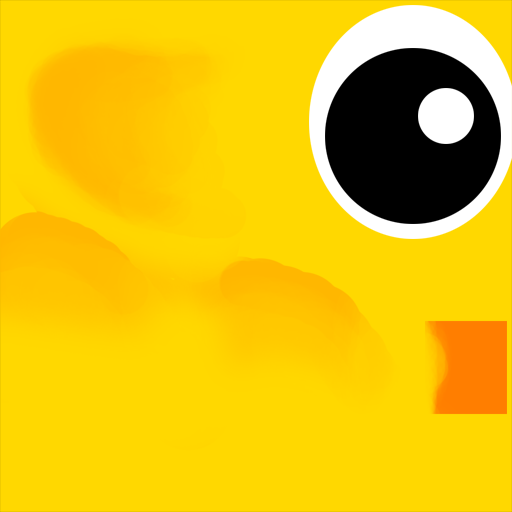
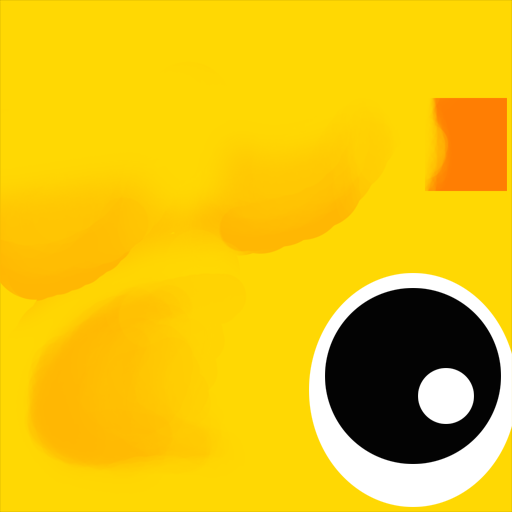
89.54?!

diff --git a/src/graphics/renderer/CDeferredRenderer.cpp b/src/graphics/renderer/CDeferredRenderer.cpp
@@ -399,7 +399,7 @@ void CDeferredRenderer::shadowCubePass(const IScene& scene, const ICamera& camer
 
     // Backface culling disabled for debugging
     glEnable(GL_CULL_FACE);
-    glCullFace(GL_BACK);
+    glCullFace(GL_FRONT);
 
     glDisable(GL_BLEND);
 
@@ -451,13 +451,13 @@ void CDeferredRenderer::shadowCubePass(const IScene& scene, const ICamera& camer
                 glViewport(0, 0, 1024, 1024);
 
                 // Send view/projection to default shader
-                m_shadowCubePassShader->setUniform(projectionMatrixUniformName, camera.getProjection());
-                
-                m_shadowCubePassShader->setUniform(
-                    viewMatrixUniformName,
-                    glm::lookAt(camera.getPosition(),
-                                camera.getPosition() + g_cameraDirections[i].target,
-                                g_cameraDirections[i].up));
+                glm::mat4 proj = glm::perspective(89.54f, 1.0f, 0.01f, 4.0f);
+                glm::mat4 view = glm::lookAt(camera.getPosition(),
+                                             camera.getPosition() + g_cameraDirections[i].target,
+                                             g_cameraDirections[i].up);
+
+                m_shadowCubePassShader->setUniform(projectionMatrixUniformName, proj);
+                m_shadowCubePassShader->setUniform(viewMatrixUniformName, view);
 
                 // Resolve ids
                 CMesh* mesh = manager.getMesh(meshId);
@@ -563,8 +563,7 @@ void CDeferredRenderer::pointLightPass(const IScene& scene, const ICamera& camer
         }
         else
         {
-            glm::mat4 shadowProj = glm::perspective(90.0f, 1.0f, 0.01f, radius);
-            StaticCamera shadowCamera = StaticCamera(glm::mat4x4(), shadowProj, position);
+            StaticCamera shadowCamera = StaticCamera(glm::mat4(), glm::mat4(), position);
             shadowCubePass(scene, shadowCamera, window, manager);
 
             // Prepare light pass frame buffer
@@ -1626,17 +1625,17 @@ bool CDeferredRenderer::initPostProcessPass(IResourceManager* manager)
         return false;
     }
 
-//    if (!initGodRayPass1(manager))
-//    {
-//        LOG_ERROR("Failed to initialize god ray 1 pass.");
-//        return false;
-//    }
+    //    if (!initGodRayPass1(manager))
+    //    {
+    //        LOG_ERROR("Failed to initialize god ray 1 pass.");
+    //        return false;
+    //    }
 
-//    if (!initGodRayPass2(manager))
-//    {
-//        LOG_ERROR("Failed to initialize god ray 2 pass.");
-//        return false;
-//    }
+    //    if (!initGodRayPass2(manager))
+    //    {
+    //        LOG_ERROR("Failed to initialize god ray 2 pass.");
+    //        return false;
+    //    }
 
     // Screen quad mesh
     std::string quadMesh = "data/mesh/screen_quad.obj";
